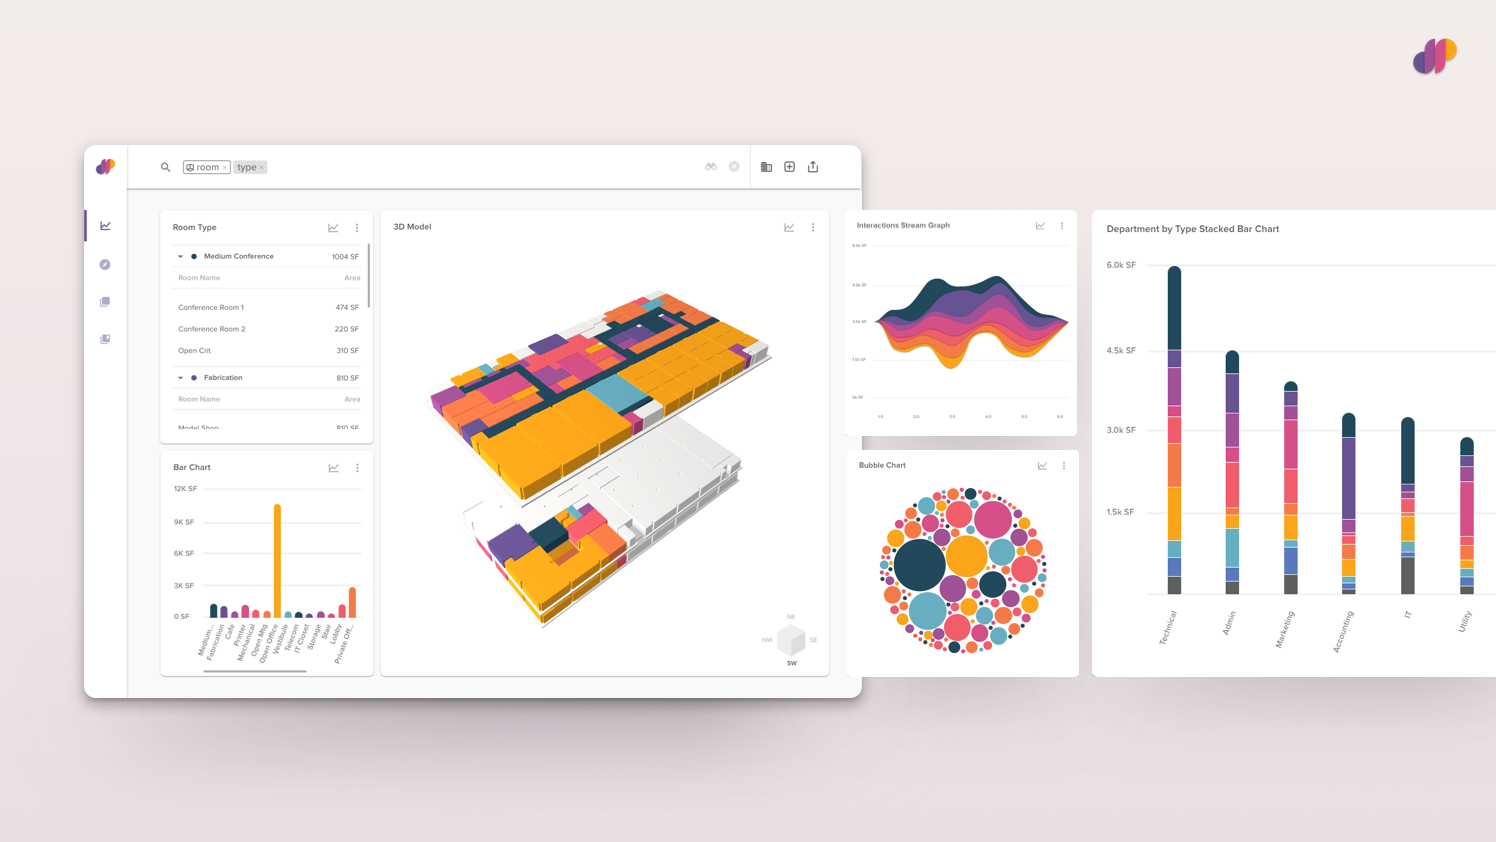
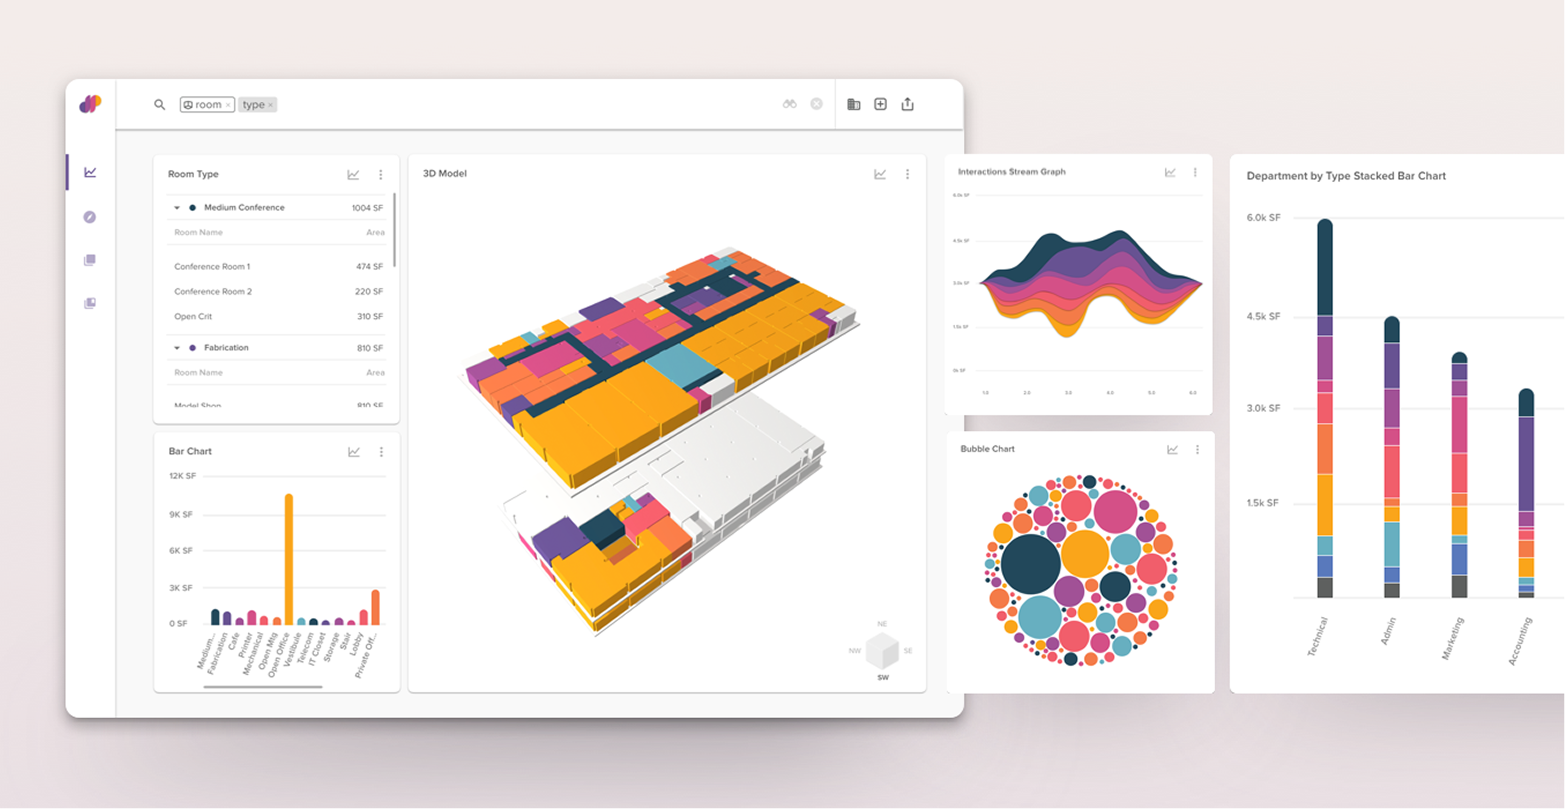
added new project tiles

diff --git a/index.html b/index.html
@@ -63,6 +63,54 @@
 
 <div id="projectTiles">
 
+  <a href="javascript:delay('')">
+    <div id="tileUDP" class="tilt exitClick" data-tilt data-tilt-scale="1.05" data-tilt-max="2" data-tilt-reset="true" data-tilt-speed="1200">
+      <img src="assets/projects/tiles/udp.png" width="100%" height="100%">
+      <span class="tileInfoLeft">Alcove</span>
+      <span class="tileInfoRight">2024 - 2025</span>
+      <span class="tileSubtitle">Product Design</span>
+      <span class="tileTitle">Alcove Carbon Compliance Platform</span>
+      <span class="viewProject">View Project 
+        <span class="material-symbols-outlined">arrow_right_alt</span>
+      </span>
+    </div>
+
+  <a href="javascript:delay('')">
+    <div id="tileIMS" class="tilt exitClick" data-tilt data-tilt-scale="1.05" data-tilt-max="2" data-tilt-reset="true" data-tilt-speed="1200">
+      <img src="assets/projects/tiles/ims.png" width="100%" height="100%">
+      <span class="tileInfoLeft">Alcove</span>
+      <span class="tileInfoRight">2022 - 2025</span>
+      <span class="tileSubtitle">Product Design</span>
+      <span class="tileTitle">Alcove Carbon Inventory Management</span>
+      <span class="viewProject">View Project 
+        <span class="material-symbols-outlined">arrow_right_alt</span>
+      </span>
+    </div>
+
+  <a href="javascript:delay('')">
+    <div id="tileCoscreen" class="tilt exitClick" data-tilt data-tilt-scale="1.05" data-tilt-max="2" data-tilt-reset="true" data-tilt-speed="1200">
+      <img src="assets/projects/tiles/coscreen.png" width="100%" height="100%">
+      <span class="tileInfoLeft">Datadog</span>
+      <span class="tileInfoRight">2022</span>
+      <span class="tileSubtitle">Product Design</span>
+      <span class="tileTitle">CoScreen</span>
+      <span class="viewProject">View Project 
+        <span class="material-symbols-outlined">arrow_right_alt</span>
+      </span>
+    </div>
+
+  <a href="javascript:delay('')">
+    <div id="tileNotebooks" class="tilt exitClick" data-tilt data-tilt-scale="1.05" data-tilt-max="2" data-tilt-reset="true" data-tilt-speed="1200">
+      <img src="assets/projects/tiles/notebooks.png" width="100%" height="100%">
+      <span class="tileInfoLeft">Datadog</span>
+      <span class="tileInfoRight">2020 - 2022</span>
+      <span class="tileSubtitle">Product Design</span>
+      <span class="tileTitle">Datadog Notebooks</span>
+      <span class="viewProject">View Project 
+        <span class="material-symbols-outlined">arrow_right_alt</span>
+      </span>
+    </div>
+
   <a href="https://open.spotify.com/album/3BAtffP7swwgUMg7xFjMs5?si=2sqlT0tjTsufBd6m9RXr6Q" target="_blank">
   <div id="tilePunchingIn" class="tilt" data-tilt data-tilt-scale="1.05" data-tilt-max="2" data-tilt-reset="true" data-tilt-speed="1200">
     <img src="assets/projects/tiles/punchingIn.png" width="100%" height="100%">
@@ -70,19 +118,11 @@
     <span class="tileInfoRight">July 2021</span>
     <span class="tileSubtitle">Album Cover</span>
     <div class="tileTitle">Punching In<div class="viewProject2">Open in Spotify 
-      <span class="material-symbols-outlined">arrow_right_alt</span>
+      <span class="material-symbols-outlined">arrow_outward</span>
       </div>
 
   </div>
-  </div>
-
-  <div id="tileDeGenerativeDesign" class="tilt" data-tilt data-tilt-scale="1.05" data-tilt-max="2" data-tilt-reset="true" data-tilt-speed="1200">
-    <img src="assets/projects/tiles/deGenerativeDesign.png" width="100%" height="100%">
-    <span class="tileInfoLeft">SfPC</span>
-    <span class="tileInfoRight">January 2020</span>
-    <span class="tileSubtitle">Installation</span>
-    <div class="tileTitle">(de)Generative Design<div class="viewProject2">Coming Soon!</div></div>
-  </div>
+  </div></a>
 
   <a href="javascript:delay('pages/photomicrography.html')">
   <div id="tilePhotomicrography" class="tilt exitClick" data-tilt data-tilt-scale="1.05" data-tilt-max="2" data-tilt-reset="true" data-tilt-speed="1200">
@@ -127,7 +167,7 @@
   <span class="tileInfoLeft">Personal</span>
   <span class="tileInfoRight">Ongoing</span>
   <span class="tileSubtitle">Development</span>
-  <div class="tileTitle">Form + Code<div class="viewProject2">View project
+  <div class="tileTitle">Form + Code<div class="viewProject2">View Project
     <span class="material-symbols-outlined">arrow_right_alt</span>
   </div></div>
 </div>
@@ -139,7 +179,7 @@
   <span class="tileInfoRight">Summer 2017</span>
   <span class="tileSubtitle">Prototyping + Fabrication</span>
   <span class="tileTitle">Tidal Light</span>
-  <span class="viewProject">View project
+  <span class="viewProject">View Project
     <span class="material-symbols-outlined">arrow_right_alt</span>
   </span>
 </div>
@@ -151,19 +191,7 @@
   <span class="tileInfoLeft">Academic</span>
   <span class="tileInfoRight">2017 - 2018</span>
   <span class="tileSubtitle">Writing</span>
-  <span class="tileTitle">Mexico 44</span>
-  <span class="viewProject">View Project 
-    <span class="material-symbols-outlined">arrow_right_alt</span>
-  </span>
-</div>
-
-<a href="javascript:delay('pages/affordableHousingReport.html')">
-<div id="tile7" class="tilt exitClick" data-tilt data-tilt-scale="1.05" data-tilt-max="2" data-tilt-reset="true" data-tilt-speed="1200">
-  <img src="assets/projects/tiles/affordableHousing.jpg" width="100%" height="100%">
-  <span class="tileInfoLeft">Academic</span>
-  <span class="tileInfoRight">Spring 2017</span>
-  <span class="tileSubtitle">Design Research</span>
-  <div class="tileTitle">Affordable Housing Report<div class="viewProject2">View Project 
+  <div class="tileTitle">Mexico 44: Re-contextualizing Modernity<div class="viewProject2">View Project
     <span class="material-symbols-outlined">arrow_right_alt</span>
   </div></div>
 </div>

diff --git a/css/index.css b/css/index.css
@@ -242,7 +242,7 @@ a.ulink:visited.block {
   align-items: center;
   gap: 4px; /* space between text and icon */
 
-  top: calc(100% + 40px);
+  top: calc(100% + 28px);
   right: 0px;
   animation: leftToRightFade 0.4s forwards;
   animation-timing-function: ease-in;
@@ -272,6 +272,15 @@ a.ulink:visited.block {
   font-variation-settings: 
     'wght' 300; 
   font-size: 18px;
+  vertical-align: middle;
+  line-height: 1;
+  top: 1px;
+}
+
+.navItem .material-symbols-outlined {
+  font-variation-settings: 
+    'wght' 300; 
+  font-size: 24px;
   vertical-align: middle;
   line-height: 1;
   top: 1px;
@@ -381,29 +390,57 @@ header {
   padding-left: 100px;
 }
 
+#tileUDP{
+  position: relative;
+  width: 55vw;
+  left: 0%;
+  margin-top: 150px;
+  margin-bottom: 200px;
+}
+
+
+#tileIMS{
+  position: relative;
+  width: 55vw;
+  left: 30%;
+  margin-top: 150px;
+  margin-bottom: 200px;
+}
+
+#tileCoscreen{ 
+  position: relative;
+  width: 35vw;
+  left: 0%;
+  margin-top: 150px;
+  margin-bottom: 180px;
+}
+
+#tileNotebooks{ 
+  position: relative;
+  width: 45vw;
+  left: 40%;
+  margin-top: 150px;
+  margin-bottom: 180px;
+}
+
 #tilePunchingIn {
   position: relative;
   width: 20vw;
-  left: 50%;
+  left: 0%;
   margin-top: 150px;
-  margin-bottom: -200px;
+  margin-bottom: -250px;
 }
 
-#tileDeGenerativeDesign {
-  position: relative;
-  width: 25vw;
-  margin-bottom: -200px;
-}
 
 #tilePhotomicrography {
   position: relative;
   width: 30vw;
-  left: 60%;
+  left: 50%;
   bottom: 70px;
 }
 
 #tile1 {
-  width: 60vw;
+  width: 55vw;
 }
 
 #tile2 {
@@ -414,7 +451,7 @@ header {
 
 #tile3 {
   position: relative;
-  width: 40vw;
+  width: 35vw;
   left: 50%;
 }
 
@@ -426,33 +463,36 @@ header {
 
 #tile5 {
   position: relative;
-  width: 40vw;
+  width: 35vw;
   left: 20%;
   bottom: 370px;
 }
 
 #tile6 {
   position: relative;
-  width: 60vw;
-  bottom: 370px;
-}
-
-#tile7 {
-  position: relative;
-  width: 30vw;
-  left: 60%;
+  left: 40%;
+  width: 45vw;
   bottom: 370px;
 }
 
 #tile8 {
   position: relative;
-  width: 20vw;
-  bottom: 770px;
-  margin-bottom: -370px;
+  width: 15vw;
+  left: 0%;
+  bottom: 700px;
 }
 
 #nameLogo {
-  font-family: "Inter";
+  font-family: "GT-Sectra-Display Medium Italic";
+  font-size: 22px;
+  font-weight: 400;
+  text-decoration: none;
+}
+#nameLogo a {
+  text-decoration: none !important;
+}
+
+#nameLogo a {
   text-decoration: none;
 }
 
@@ -473,7 +513,7 @@ header {
 }
 
 #intro {
-  width: 60%;
+  width: 55%;
   padding-top: 6vh;
   opacity: 0;
   animation: leftToRight 0.4s forwards;
@@ -652,22 +692,64 @@ header {
   #intro {
     width: 100%;
   }
+
+  #tileUDP {
+    width: 100%;
+    margin-left: auto;
+    margin-right: auto;
+    top: 0px;
+    bottom: 80px;
+    left: 0px;
+    right: 0px;
+    margin-bottom: -20px;
+
+  }
+
+  #tileIMS{
+    width: 100%;
+    margin-left: auto;
+    margin-right: auto;
+    top: 0px;
+    bottom: 80px;
+    left: 0px;
+    right: 0px;
+    margin-bottom: -20px;
+
+  }
+
+  #tileCoscreen {
+    width: 100%;
+    margin-left: auto;
+    margin-right: auto;
+    top: 0px;
+    bottom: 80px;
+    left: 0px;
+    right: 0px;
+    margin-bottom: -20px;
+
+  }
+  
+  #tileNotebooks {
+    width: 100%;
+    margin-left: auto;
+    margin-right: auto;
+    top: 0px;
+    left: 0px;
+    right: 0px;
+    margin-bottom: -40px;
+  }
+
   #tilePunchingIn {
     width: 65%;
     margin-left: auto;
     margin-right: auto;
     padding-top: 100px;
-    bottom: 200px;
+    /* bottom: 200px; */
     left: 0px;
     right: 0px;
+    margin-bottom: 80px;
   }
-  #tileDeGenerativeDesign {
-    width: 65%;
-    margin-left: auto;
-    margin-right: auto;
-    top: 0px;
-    margin-bottom: 0px;
-  }
+
   #tilePhotomicrography {
     width: 75%;
     margin-left: auto;

diff --git a/components/nav.html b/components/nav.html
@@ -1,8 +1,14 @@
+<link href="https://fonts.googleapis.com/css2?family=Material+Symbols+Outlined" rel="stylesheet" />
+<link rel="stylesheet" href="css/index.css">
+
+
 <div class="nav">
-  <a href="javascript:delay('../index.html#workHeader')" class="exitClick display-font primary-color" id="nameLogo">César Neri</a>
-  <ul class="menu">
+  <a href="../index.html" class="display-font primary-color" id="nameLogo">César Neri</a>
+  <!-- <ul class="menu">
     <li id="workMenu">
-      <span>Work<img id="menuExpand" src="../assets/icons/expand.png"></span>
+      <span class="navItem secondary-color">Work
+        <span class="material-symbols-outlined">keyboard_arrow_down</span>
+      </span>
       <ul>
         <li><a href="javascript:delay('dynamicPlanning.html')" class="exitClick">Dynamic Planning</a></li>
         <li><a href="javascript:delay('colorSpace.html')" class="exitClick">Color Space</a></li>
@@ -11,5 +17,5 @@
         <li><a href="javascript:delay('facialProjectionMapping.html')" class="exitClick">Facial Projection Mapping</a></li>
       </ul>
     </li>
-  </ul>
+  </ul> -->
 </div>

diff --git a/css/variables.css b/css/variables.css
@@ -1,5 +1,5 @@
 :root {
-  --primary-color: #FF6A00;
+  --primary-color: #FF4B00;
   --text-primary-color: #4A4949;
   --text-secondary-color: #939393;
   --text-disabled-color: #C7C7C6;
